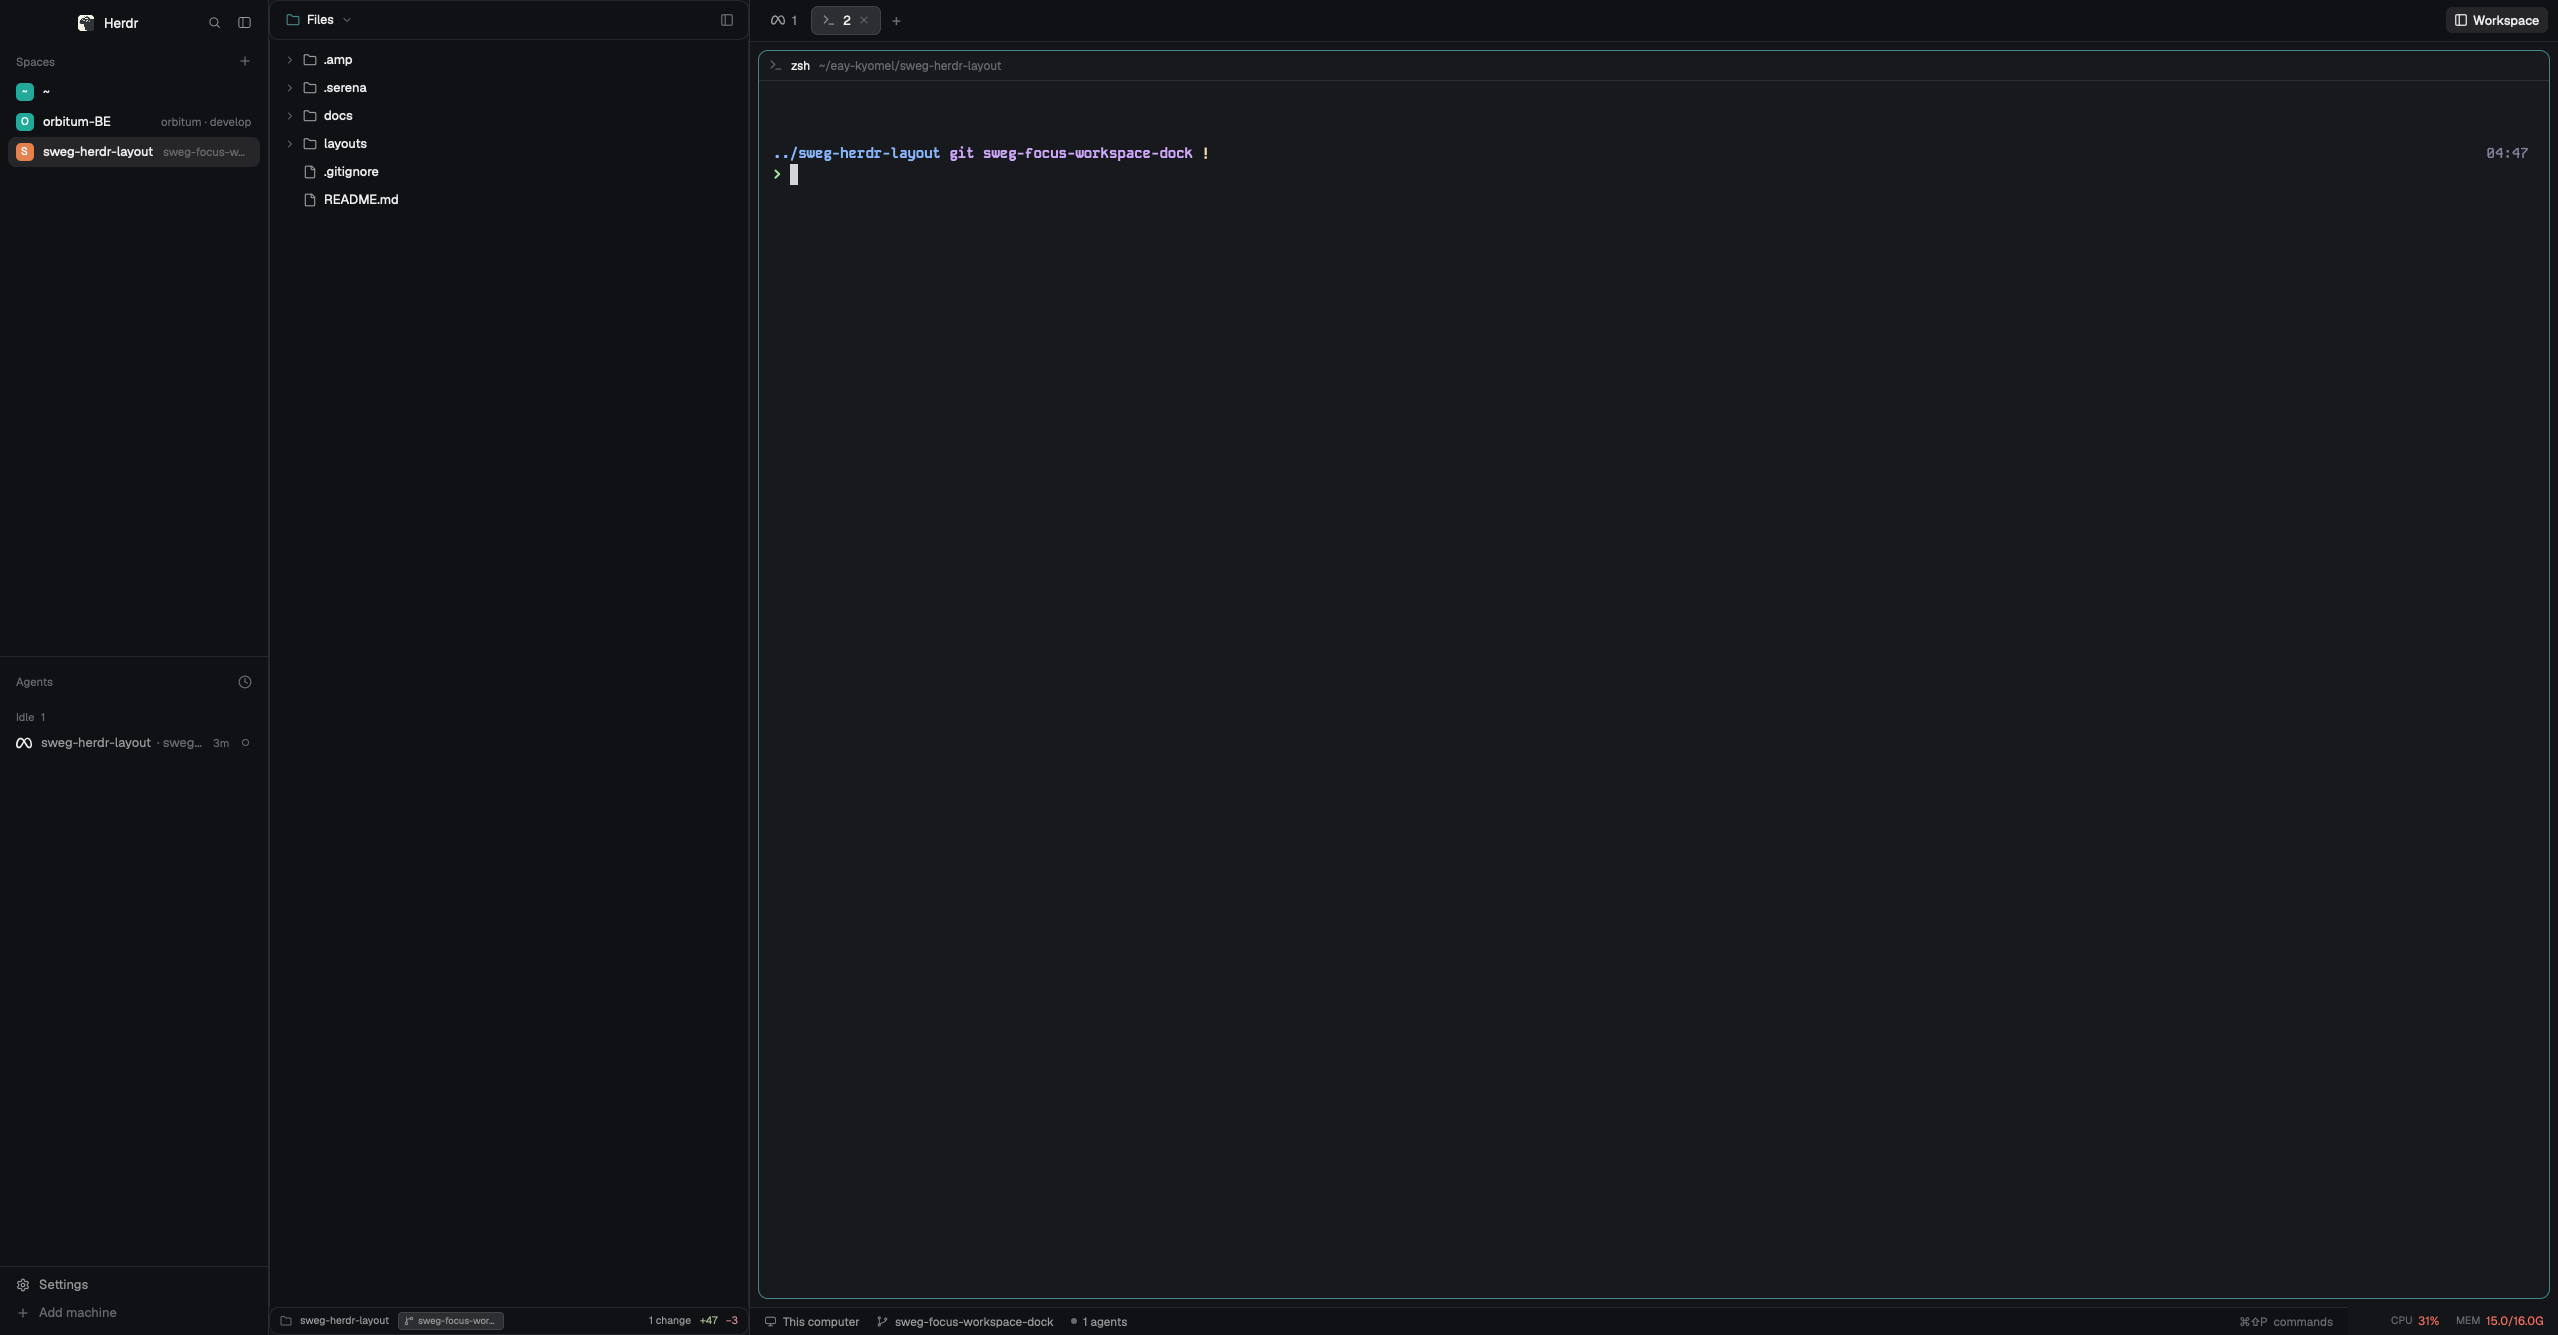
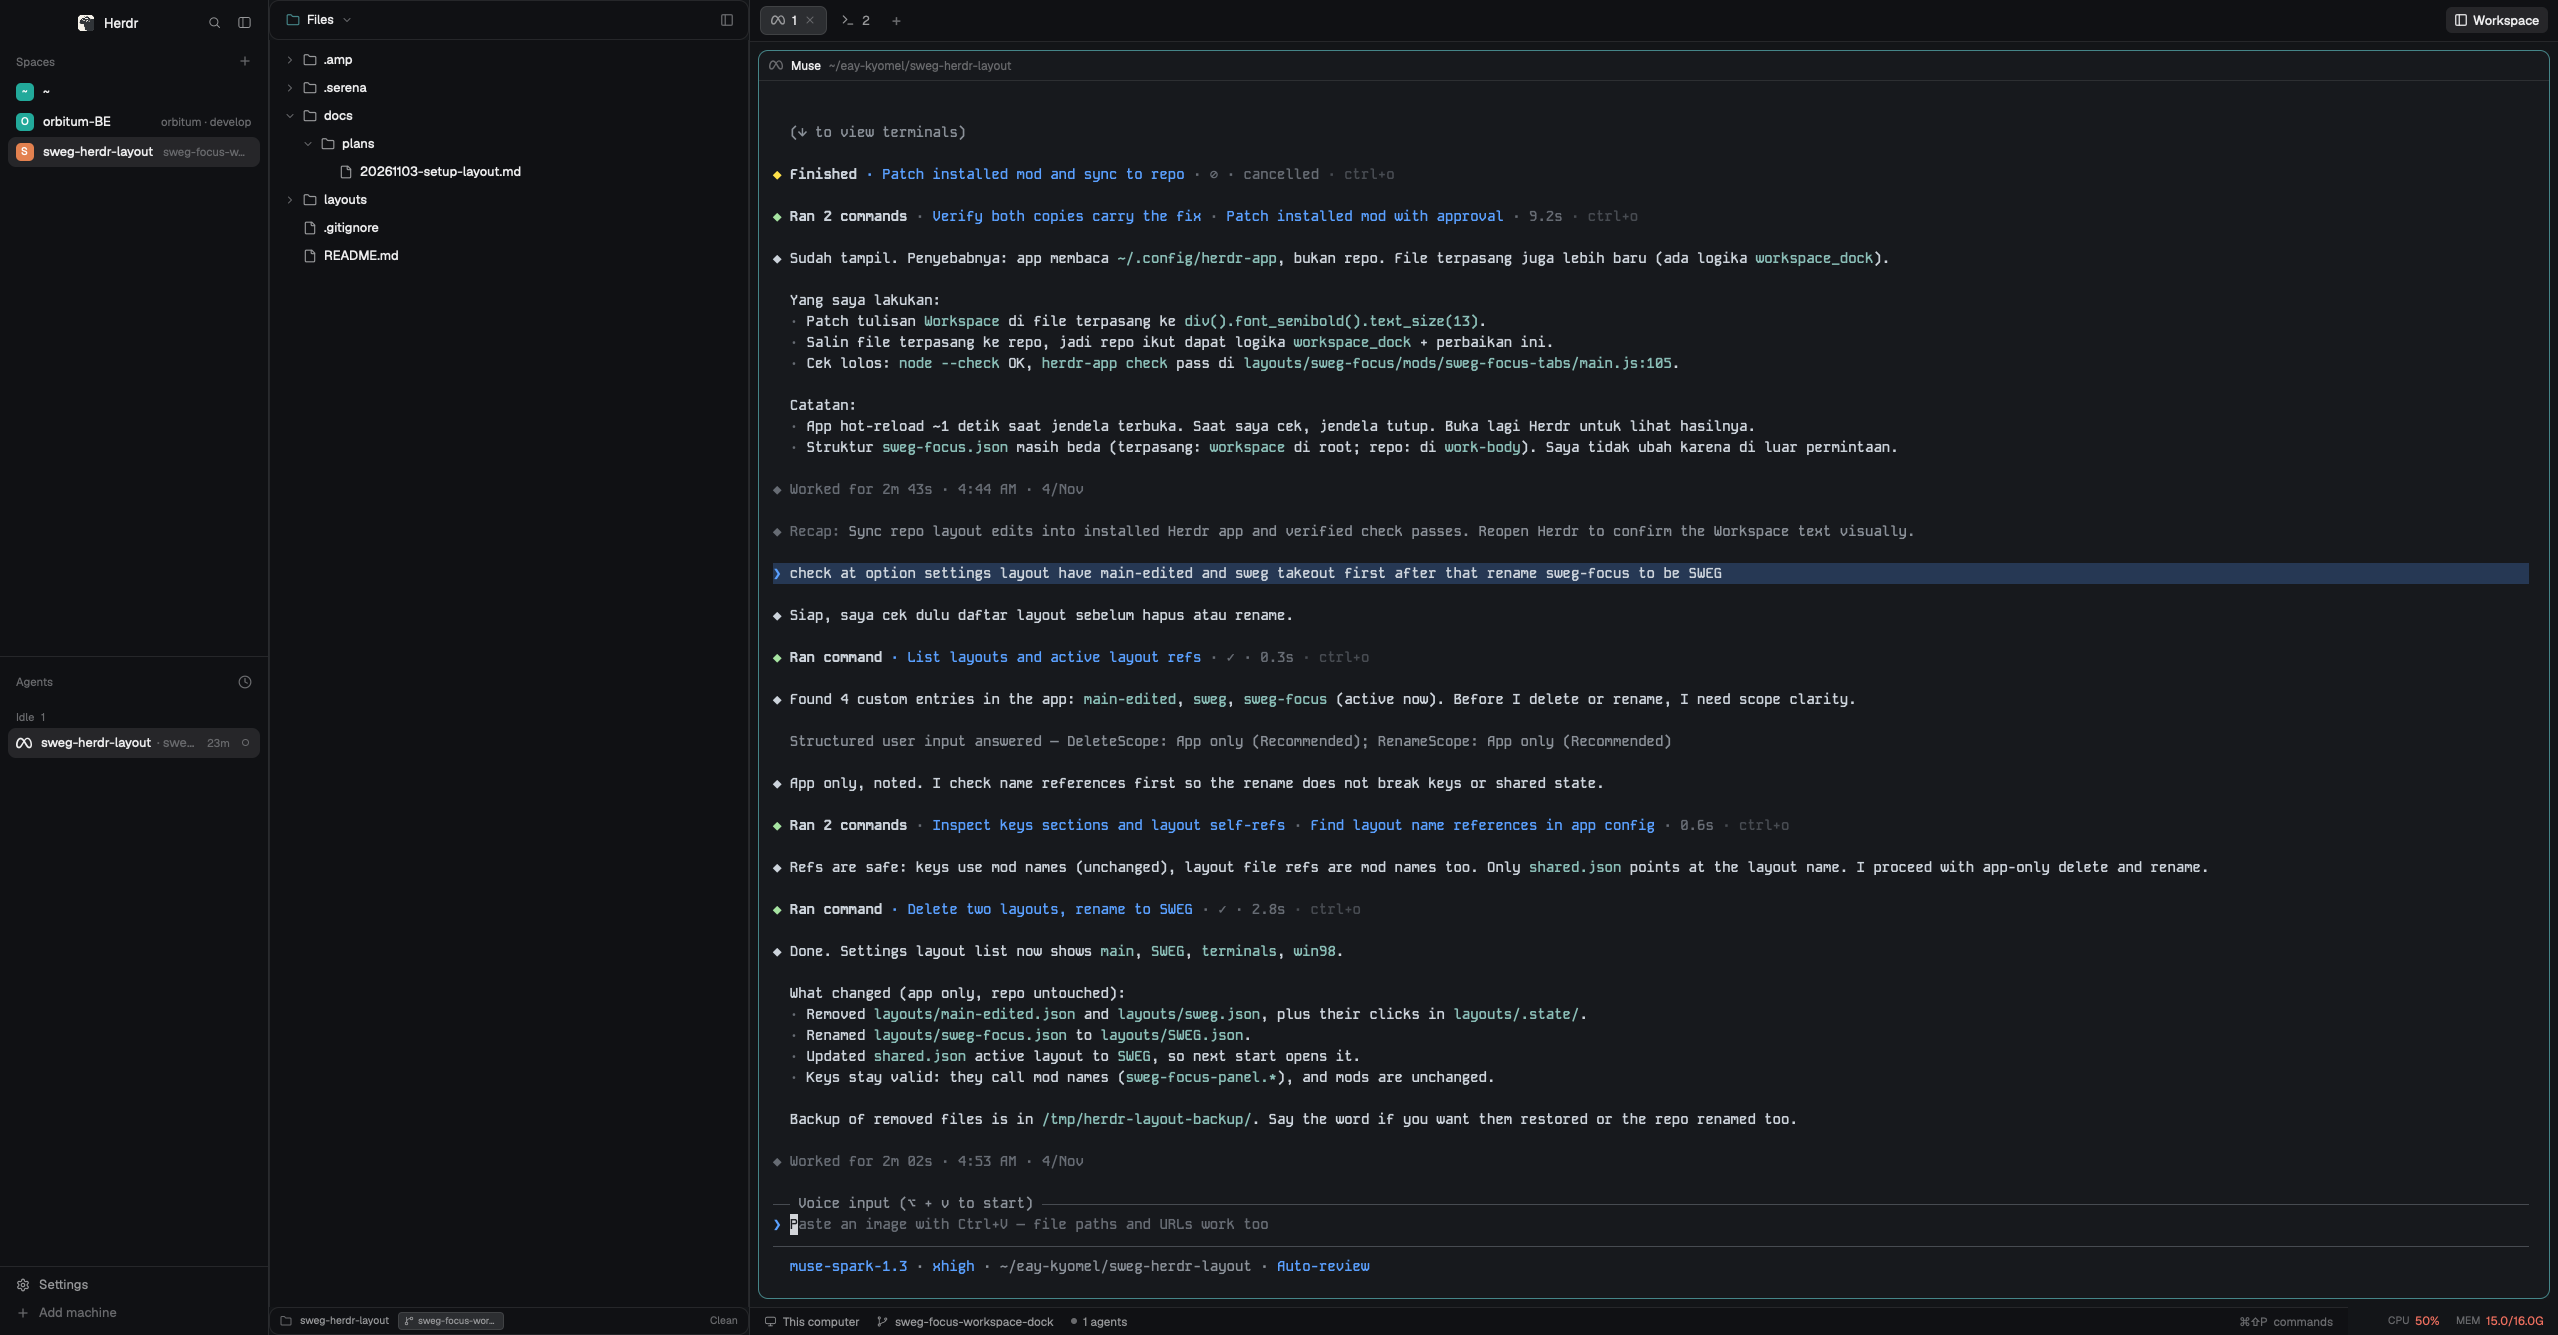
sweg-focus: make the Dock toggle actually move the rail
Two bugs: readDock() read settings.json first, so a stale left shadowed the shared pick and want never changed; and the menu's async settings write never finished because closeOverlay tears the popup down before readTextFile/writeTextFile resume. shared(workspace.dock) is now the truth, the menu only sets it plus runs reload_dock, and sweg-focus-tabs syncs settings.json once per value. Verified both directions with a one-shot setShared self test.

diff --git a/layouts/sweg-focus/mods/sweg-focus-tabs/main.js b/layouts/sweg-focus/mods/sweg-focus-tabs/main.js
@@ -1,10 +1,10 @@
 // Top tab bar for the sweg-focus layout: the shipped tabs, without the old
 // Files/Changes panel buttons. One Workspace button shows and hides the
-// workspace card beside the terminal.
+// workspace rail. The same mod applies the rail's dock side.
 
 import { View, div, svg, image } from "gpui-kit";
 import { h_flex } from "gpui-base";
-import { spaces, panes, run, openOverlay, theme, window, layout, settings, shared, appHome, readTextFile, nextCommand } from "herdr";
+import { spaces, panes, run, openOverlay, theme, window, layout, settings, shared, appHome, readTextFile, writeTextFile, nextCommand } from "herdr";
 
 function find(node, id) {
   if (node?.id === id) return node;
@@ -15,19 +15,20 @@ function find(node, id) {
   return null;
 }
 
-// "workspace_dock" in settings.json: "left" (default) or "right". settings()
-// drops keys Herdr does not know, so the file is read directly. Herdr's own
-// settings saves can drop the key; the menu toggle also stores the pick in
-// shared.json, which is read when the key is missing.
+// "workspace_dock": the menu toggle stores the pick in shared.json and it wins.
+// settings.json's key is the seed for a fresh home; Herdr drops unknown keys
+// when it saves that file itself, so it cannot be the runtime truth.
 async function readDock() {
+  const pick = shared("workspace.dock");
+  if (pick === "left" || pick === "right") return pick;
   try {
     const raw = await readTextFile(`${appHome()}/settings.json`);
     const v = raw ? JSON.parse(raw).workspace_dock : null;
     if (v === "left" || v === "right") return v;
   } catch {
-    // Fall through to the shared pick.
+    // Keep the default.
   }
-  return shared("workspace.dock") === "right" ? "right" : "left";
+  return "left";
 }
 
 export default class Tabs extends View {
@@ -61,7 +62,27 @@ export default class Tabs extends View {
     root.children = [...rest.slice(0, at), ws, ...rest.slice(at)];
     run("layout.set", { layout: tree });
     this.dock = want;
+    this.syncSettings(want);
     cx.notify();
+  }
+
+  // Keeps settings.json readable for people who look there. Best effort and
+  // once per value: Herdr may rewrite the file without unknown keys, and a
+  // repeated write would then loop. shared.json stays the truth either way.
+  async syncSettings(side) {
+    if (this.fileFor === side) return;
+    this.fileFor = side;
+    const path = `${appHome()}/settings.json`;
+    try {
+      const raw = await readTextFile(path);
+      if (raw === null) return;
+      const json = JSON.parse(raw);
+      if (json.workspace_dock === side) return;
+      json.workspace_dock = side;
+      await writeTextFile(path, JSON.stringify(json, null, 2) + "\n", raw);
+    } catch {
+      // The app may hold the file; the shared pick still applies.
+    }
   }
 
   render() {

diff --git a/layouts/sweg-focus/mods/sweg-focus-menu/main.js b/layouts/sweg-focus/mods/sweg-focus-menu/main.js
@@ -1,13 +1,12 @@
 // Switcher popup for the sweg-focus workspace header.
 // props: { active: "ws-files" | "ws-git" | "ws-px0", overlay }
-// Also picks the rail's dock side. settings.json's "workspace_dock" is the
-// preference; Herdr rewrites settings.json from its own struct on some saves
-// (zoom, settings screen) and drops unknown keys, so the pick is also kept in
-// shared.json and read as the fallback.
+// Also picks the rail's dock side. The pick goes to shared.json because the
+// overlay is torn down right after a click, so async file work here never
+// finishes; sweg-focus-tabs applies the move and syncs settings.json.
 
 import { View, div, svg } from "gpui-kit";
 import { v_flex, h_flex } from "gpui-base";
-import { props, run, closeOverlay, theme, layout, shared, setShared, appHome, readTextFile, writeTextFile } from "herdr";
+import { props, run, closeOverlay, theme, layout, setShared } from "herdr";
 
 const ITEMS = [
   { id: "ws-files", label: "Files", desc: "Browse this folder", icon: "mods/files/folder.svg" },
@@ -24,27 +23,6 @@ function dockSide() {
   return root?.children?.[root.children.length - 1]?.id === "workspace" ? "right" : "left";
 }
 
-// Best effort: the app may rewrite settings.json without this key, so
-// shared.json carries the pick and is read when the key is missing.
-async function saveDock(side) {
-  setShared("workspace.dock", side);
-  const path = `${appHome()}/settings.json`;
-  for (let i = 0; i < 2; i++) {
-    const raw = await readTextFile(path);
-    if (raw === null) return;
-    let json;
-    try { json = JSON.parse(raw); } catch { return; }
-    if (json.workspace_dock === side) return;
-    json.workspace_dock = side;
-    try {
-      await writeTextFile(path, JSON.stringify(json, null, 2) + "\n", raw);
-      return;
-    } catch {
-      // The app saved settings at the same moment; read it again and retry once.
-    }
-  }
-}
-
 export default class WorkspaceMenu extends View {
   choose(id) {
     closeOverlay(props().overlay);
@@ -54,7 +32,7 @@ export default class WorkspaceMenu extends View {
 
   dock(side) {
     closeOverlay(props().overlay);
-    saveDock(side).catch(() => {});
+    setShared("workspace.dock", side);
     run("sweg-focus-tabs.reload_dock");
   }
 

diff --git a/layouts/sweg-focus/RECIPE.md b/layouts/sweg-focus/RECIPE.md
@@ -29,16 +29,18 @@ repo, not the focused pane, and docks left (default) or right from
 
 ## How it behaves
 
-- Dock side: `settings.json` `"workspace_dock": "left" | "right"` (default
-  left). The rail moves without a restart: `sweg-focus-tabs` reads the file
-  and reorders the layout with `layout.set`.
-- `settings()` drops keys Herdr does not know, so the value is read with
+- Dock side: `shared("workspace.dock")` is the truth; the menu toggle writes
+  it. `settings.json` `"workspace_dock": "left" | "right"` is the seed for a
+  fresh home, read only while the shared key is missing. The rail moves
+  without a restart: `sweg-focus-tabs` reorders the layout with `layout.set`.
+- `settings()` drops keys Herdr does not know, so the file is read with
   `readTextFile(appHome() + "/settings.json")`. Herdr rewrites that file from
-  its own struct on some saves (zoom, settings screen) and drops unknown keys;
-  the menu toggle also stores the pick in `shared("workspace.dock")`, read
-  when the key is missing.
-- The menu's `Left` / `Right` writes both places and runs
-  `sweg-focus-tabs.reload_dock`, so the move is immediate.
+  its own struct on some saves (zoom, settings screen) and drops unknown keys,
+  which is why the shared pick wins. After a move, `sweg-focus-tabs` writes
+  the key back into settings.json once per value, best effort.
+- The menu's `Left` / `Right` writes the shared pick and runs
+  `sweg-focus-tabs.reload_dock`, so the move is immediate; a 2 s timer is the
+  fallback.
 - Workspace content follows the space's repo: the first terminal in the space
   with a live folder, else the space's own folder. Switching panes or tabs
   inside the space does not move the rail (Orca's per-worktree explorer, Zed's
@@ -76,10 +78,10 @@ repo, not the focused pane, and docks left (default) or right from
 - `mods/sweg-focus-tabs`: clone of `tabs` 0.1.12. Drops `shared` panel
   syncing and the Files/Changes buttons; adds the `Workspace` button, the
   `+` inside the tab-scroll row, and the dock logic:
-  `readDock()` (settings.json -> `shared("workspace.dock")` -> `"left"`),
+  `readDock()` (`shared("workspace.dock")` -> settings.json seed -> `"left"`),
   `applyDock()` (clone `layout()`, move the `workspace` node in
-  `root.children`, `run("layout.set", { layout })`), run from `init`, a 2 s
-  `cx.timer`, and the `reload_dock` command.
+  `root.children`, `run("layout.set", { layout })`, then `syncSettings()`),
+  run from `init`, a 2 s `cx.timer`, and the `reload_dock` command.
 - `mods/sweg-focus-panel`: two copies in the layout (`props.part` head/foot).
   Head: title, chevron, hide (icon follows the dock side), popup, plus
   `pl(lightsPadding)` when the rail is the first column so the macOS window
@@ -87,9 +89,9 @@ repo, not the focused pane, and docks left (default) or right from
   git timer. `location()` reads the space repo via `place()`, not the
   focused pane.
 - `mods/sweg-focus-menu`: popup with the three views and the `Dock` row.
-  `saveDock()` calls `setShared("workspace.dock", side)` and best-effort
-  rewrites `settings.json` through `readTextFile` + `writeTextFile(expected)`
-  with one retry, then runs `sweg-focus-tabs.reload_dock`.
+  `dock()` calls `setShared("workspace.dock", side)` then
+  `run("sweg-focus-tabs.reload_dock")`; both are synchronous, because the
+  overlay is torn down right after the click.
 - `mods/sweg-focus-files`, `mods/sweg-focus-changes`: clones of `files` and
   `changes` 0.1.12, headless (no 42 px card header; Files keeps a 34 px
   preview bar). Both use the same space-level `place()` / `location()`.
@@ -111,10 +113,19 @@ repo, not the focused pane, and docks left (default) or right from
   a partial tree loses nodes. `applyDock()` must stay idempotent: it compares
   the node's current index and skips when already in place, or the 2 s timer
   rewrites the layout forever.
+- A popup/overlay mod is torn down as soon as `closeOverlay` runs; async work
+  started in that click (file reads or writes) never resumes. Keep the
+  click handler synchronous and let a persistent mod (`sweg-focus-tabs`) do
+  the async part. This broke the first Dock toggle build.
+- `readDock()` must read `shared("workspace.dock")` first. With settings.json
+  first, a stale `"left"` left in the file shadowed every later shared pick
+  and the toggle looked dead.
+- Every `run("<mod>.<command>")` needs the mod to be loaded and listening;
+  `reload_dock` is best effort, the 2 s timer is the real guarantee.
 - `settings.json` is not a safe store for custom keys: Herdr serializes its
   own `Person` struct back to the file on some saves and drops unknown keys.
-  Read it as a preference, keep `shared("workspace.dock")` as the fallback,
-  and never rely on the key surviving a zoom change.
+  Read it as a seed, keep `shared("workspace.dock")` as the truth, and never
+  rely on the key surviving a zoom change.
 - The app's settings screen (`cmd-,`) is the shipped `frame/settings` mod,
   rewritten on every start. A mod cannot add a row there; the workspace menu
   is the settings UI for this layout.
